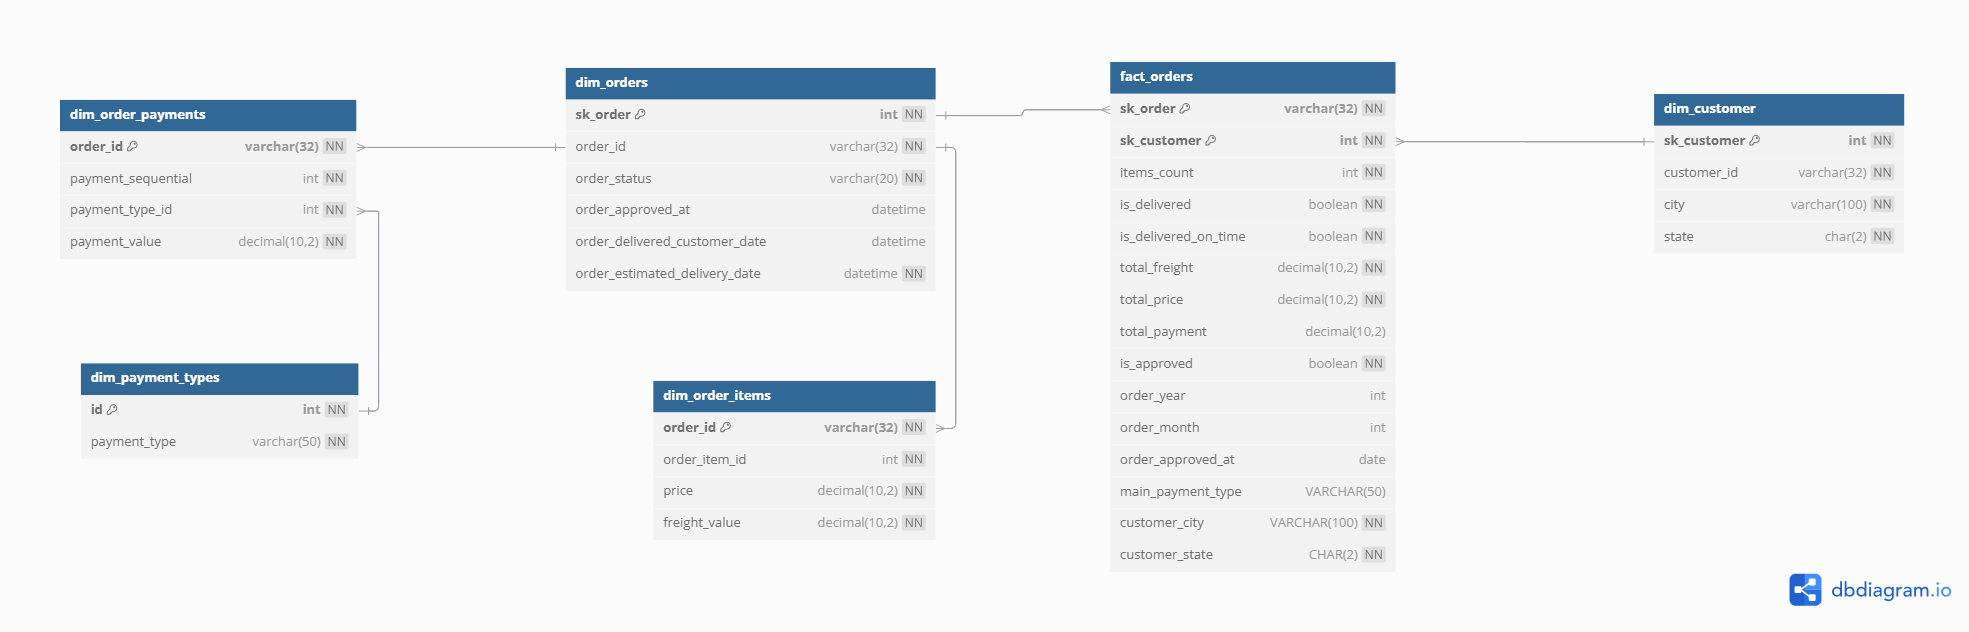
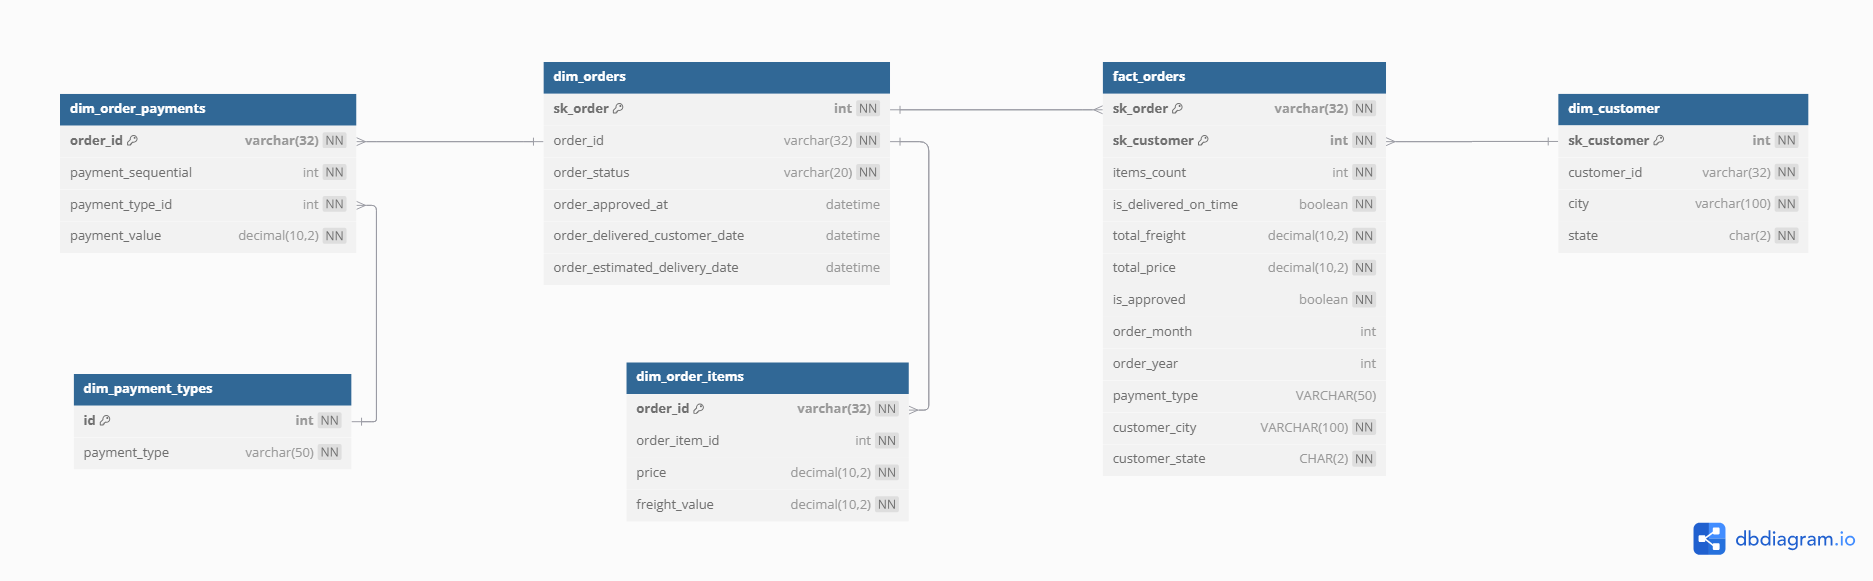
Ajustes realizados no modelo dimensional

diff --git a/Docs/modelo-dimensional.md b/Docs/modelo-dimensional.md
@@ -17,52 +17,38 @@ Armazena informações de pedidos realizados, incluindo quantidades de itens, st
 
 ### Principais atributos:
 - `items_count`: quantidade de itens no pedido
-- `is_delivered`: flag indicando se o pedido foi entregue
 - `is_delivered_on_time`: flag indicando se a entrega foi no prazo
 - `total_freight`: valor total do frete
 - `total_price`: valor total dos produtos
-- `total_payment`: valor total pago
 - `is_approved`: flag indicando se o pedido foi aprovado
-- `order_year` e `order_month`: extraídos da data de aprovação
-- `main_payment_type`: principal forma de pagamento utilizada
+- `order_year` e `order_month`: Ano e Mês da data de aprovação
+- `payment_type`: forma de pagamento utilizada
 - `customer_city` e `customer_state`: localização do cliente
 
 ---
 
 ## Dimensões
 
-### `dim_orders`
-
-Contém detalhes do pedido como status, data de aprovação, entrega e previsão de entrega.
-
-### `dim_customer`
-
-Contém dados dos clientes como cidade e estado.
-
-### `dim_order_items`
-
-Detalha os itens de cada pedido, incluindo preço e valor de frete por item.
-
-### `dim_order_payments`
-
-Armazena as informações de pagamento por pedido, incluindo valor e tipo de pagamento.
-
-### `dim_payment_types`
-
-Lista os tipos de pagamento disponíveis (e.g., cartão de crédito, boleto, etc.).
+- `dim_orders`: Contém detalhes do pedido como status, data de aprovação, entrega e previsão de entrega.
+- `dim_customer`: Contém dados dos clientes como cidade e estado.
+- `dim_order_items`: Detalha os itens de cada pedido, incluindo preço e valor de frete por item.
+- `dim_order_payments`: Armazena as informações de pagamento por pedido, incluindo valor e tipo de pagamento.
+- `dim_payment_types`: Lista os tipos de pagamento disponíveis (cartão de crédito, boleto, pix, etc.).
 
 ---
+
+<br>
 
 Este modelo permite as seguintes análises:
 
 KPIs 
 
--> Taxa de entregas no prazo <br>
--> Frete médio por pedido <br>
--> Ticket médio por pedido <br>
--> Taxa de aprovação de pedido
+- Taxa de entregas no prazo 
+- Frete médio por pedido
+- Ticket médio por pedido
+- Taxa de aprovação de pedido
 
 Métricas
 
--> Distribuição dos tipos de pagamento <br>
--> Cidades dos cliente que mais compraram
+- Distribuição dos tipos de pagamento
+- Cidades dos clientes que mais compraram

diff --git a/Docs/modelo-relacional.md b/Docs/modelo-relacional.md
@@ -5,8 +5,6 @@ hide:
 
 # Modelo Entidade-Relacionamento
 
-
-
 > Abaixo está o diagrama que representa o modelo entidade-relacionamento com suas tabelas e relacionamentos:
 
 ![Modelo ER do Dataset E-commerce](Images/modelo_relacional.png)
